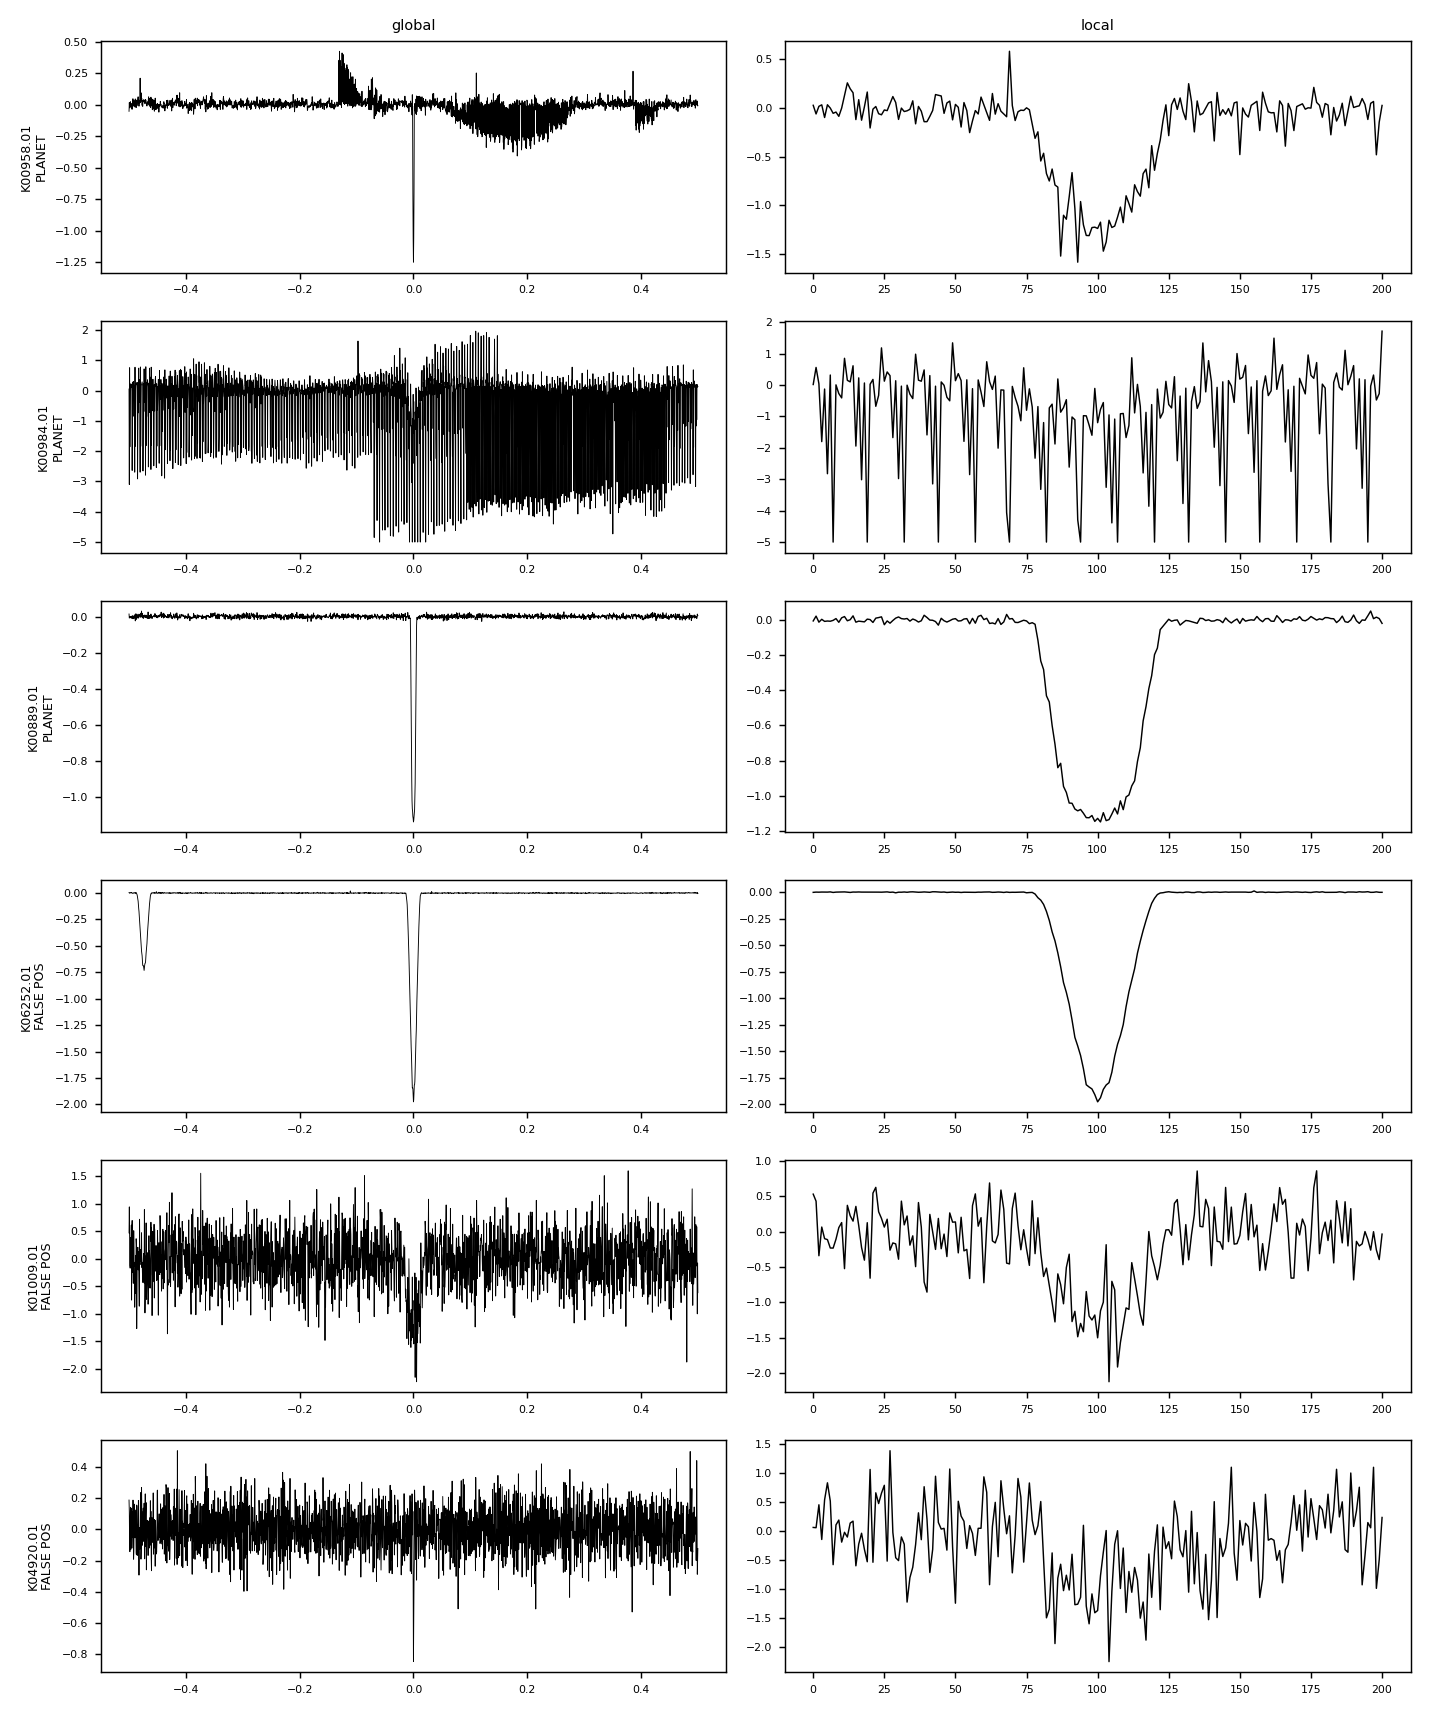
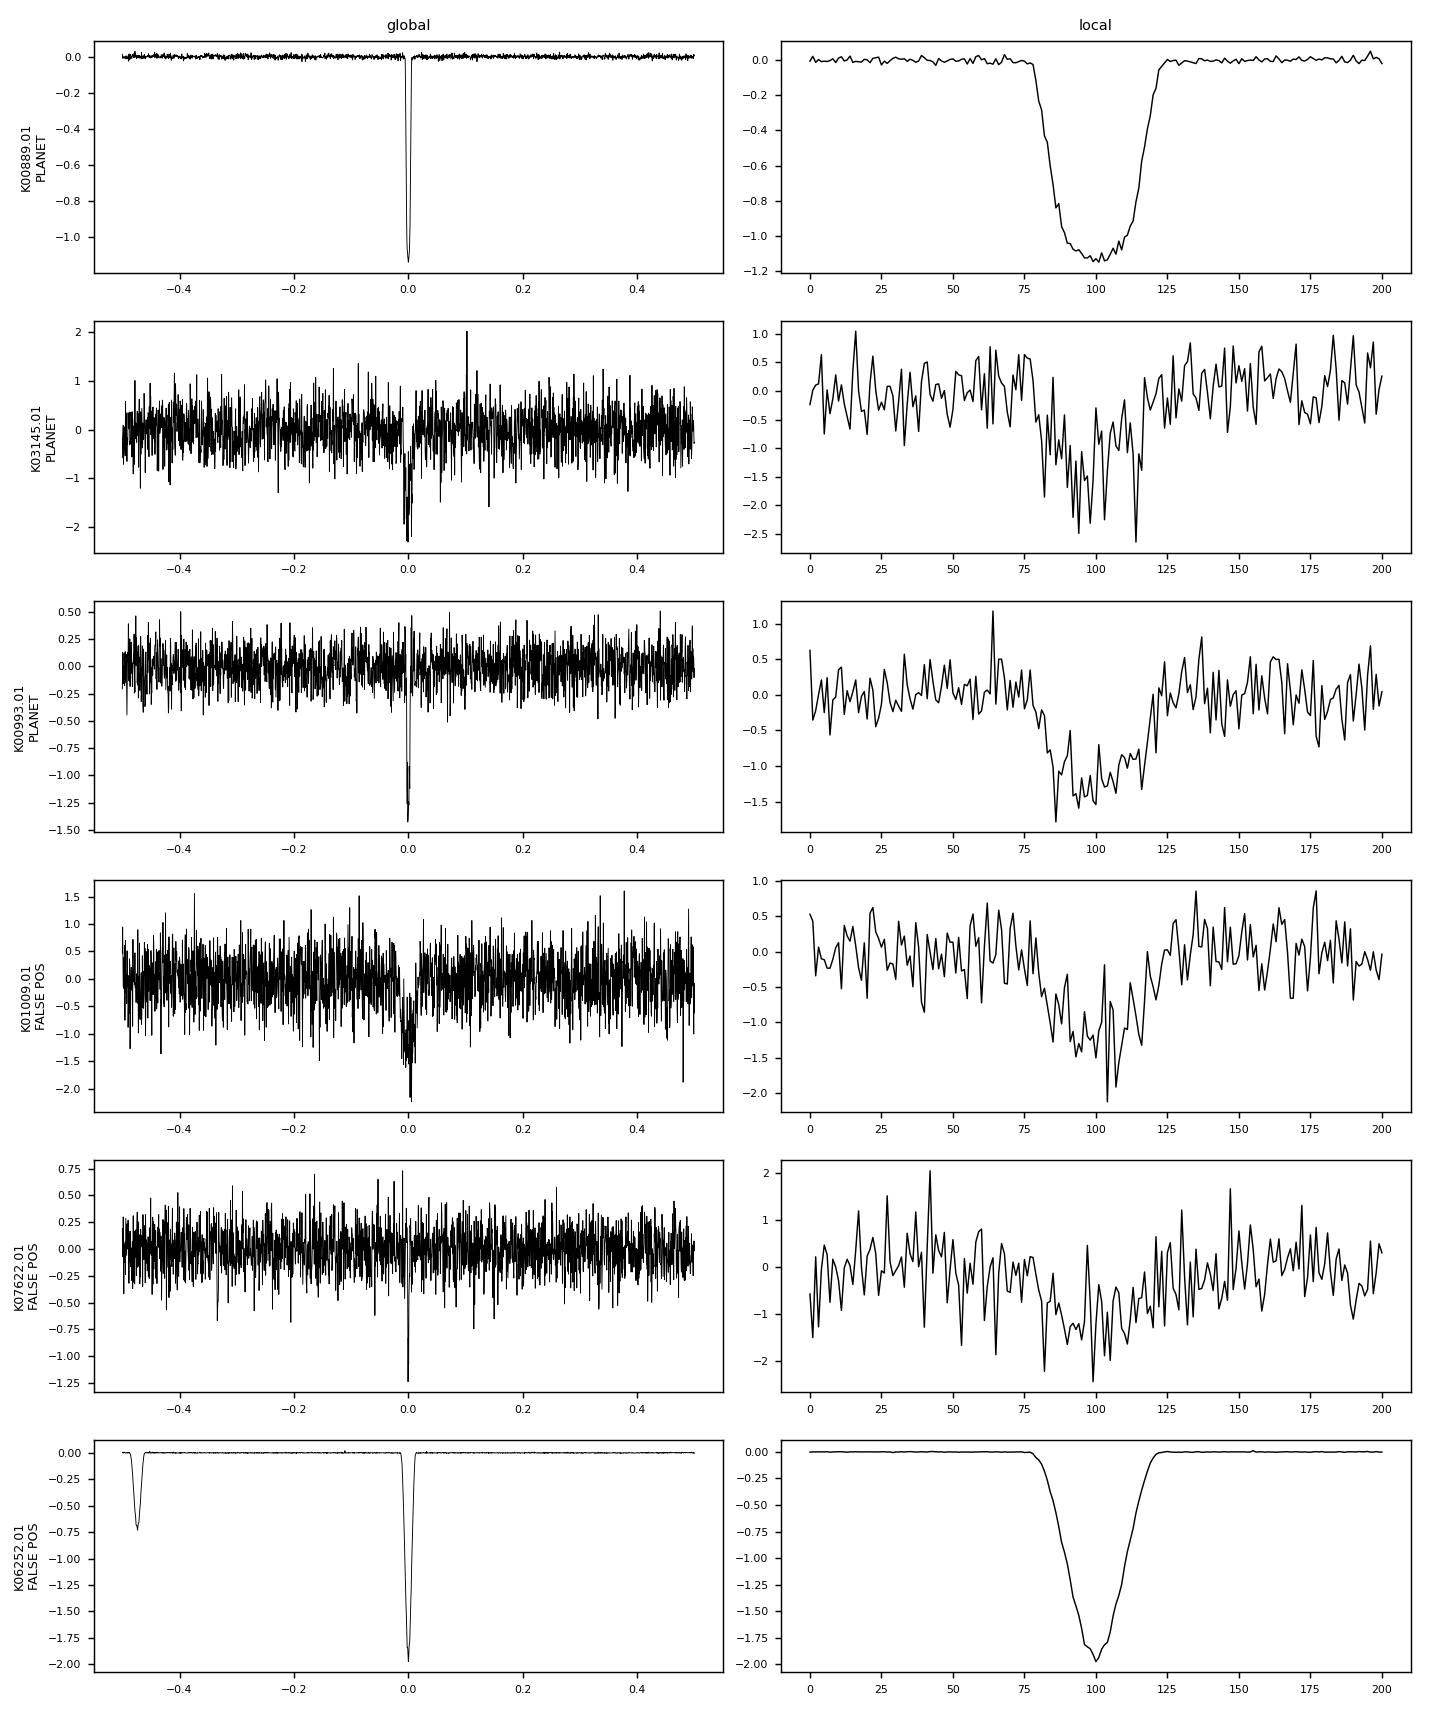
Fix drop-rate accounting in inspect_views.py
The denominator was keyed on the stars present in views.h5:

    stars_done = set(f["kepid"][:].tolist())
    attempted  = koi[koi.kepid.isin(stars_done)]

A star whose KOIs were ALL dropped never appears in f["kepid"], so it was
excluded from its own drop rate. Measured on the full 6,822-view build,
that reported 1% when the true rate was 10.1% - a tenfold understatement
of the exact number project.md requires be reported before Stage 3.

Take the denominator from the cache directory instead: every star we had
data for, whether or not it yielded a view.

Also report per-disposition RATES rather than raw counts. The counts alone
read as ordinary class imbalance (727 FP vs 38 CONFIRMED); the rates show
what is actually happening:

    CONFIRMED        38 / 2748 dropped =  1.4%
    FALSE POSITIVE  727 / 4839 dropped = 15.0%

and print the base-rate shift (36.2% -> 39.7% planet) with a warning when
it moves, so the bias cannot be absorbed silently.

Cause is geometric, not a defect: the local view spans +/-2.5 transit
durations and make_views returns None when that exceeds the orbit
(period < 5x duration). 330 of the 765 drops fail that guard. Eclipsing
binaries cluster at short period with long eclipses, precisely that
geometry, so the loss falls on the dominant false-positive class.

Behaviour of the view builder is unchanged - this only fixes reporting.

diff --git a/inspect_views.py b/inspect_views.py
@@ -11,6 +11,8 @@ Usage:
     python inspect_views.py
 """
 
+import os
+
 import h5py
 import numpy as np
 import pandas as pd
@@ -20,6 +22,7 @@ import matplotlib.pyplot as plt
 
 H5 = "views.h5"
 KOI_CSV = "koi_ephem.csv"
+CACHE = "cache"
 
 
 def main():
@@ -74,17 +77,44 @@ def main():
     koi = koi[koi.koi_disposition.isin(["CONFIRMED", "FALSE POSITIVE"])]
     koi = koi.dropna(subset=["koi_period", "koi_time0bk", "koi_duration"])
 
-    stars_done = set(f["kepid"][:].tolist())
+    # The denominator must be every star we HAD DATA FOR, not every star
+    # that ended up in views.h5. A star whose KOIs were all dropped never
+    # appears in f["kepid"], so keying on that set silently excludes total
+    # failures from their own drop rate. Measured 2026-09-03: that bug
+    # reported 1% when the true rate was 10.1%.
+    if os.path.isdir(CACHE):
+        stars_done = {int(x[:-4]) for x in os.listdir(CACHE)
+                      if x.endswith(".npz")}
+    else:                                   # pre-cache pipeline, best effort
+        stars_done = set(f["kepid"][:].tolist())
     attempted = koi[koi.kepid.isin(stars_done)]
     got = set(name)
     dropped = attempted[~attempted.kepoi_name.isin(got)]
 
-    print(f"\n[drop] {len(attempted)} KOIs on the stars processed, "
-          f"{len(got)} stored, {len(dropped)} dropped "
-          f"({len(dropped) / max(len(attempted), 1) * 100:.0f}%)")
+    print(f"\n[drop] {len(attempted)} KOIs on the {len(stars_done)} stars "
+          f"with data, {len(attempted) - len(dropped)} stored, "
+          f"{len(dropped)} dropped "
+          f"({len(dropped) / max(len(attempted), 1) * 100:.1f}%)")
     if len(dropped):
+        # Rates, not counts. Counts alone hide the bias: 727 FP vs 38
+        # CONFIRMED looks like class imbalance until you divide through
+        # and see 15.0% vs 1.4%.
         print("\n[drop] by disposition:")
-        print(dropped.koi_disposition.value_counts().to_string())
+        tab = (attempted.assign(kept=attempted.kepoi_name.isin(got))
+                        .groupby("koi_disposition")["kept"]
+                        .agg(kept="sum", total="count"))
+        tab["dropped"] = tab.total - tab.kept
+        tab["drop_%"] = (100 * tab.dropped / tab.total).round(1)
+        print(tab.to_string())
+
+        base_before = (attempted.koi_disposition == "CONFIRMED").mean()
+        kept_rows = attempted[attempted.kepoi_name.isin(got)]
+        base_after = (kept_rows.koi_disposition == "CONFIRMED").mean()
+        print(f"\n[drop] planet fraction before drops: {base_before*100:.1f}%")
+        print(f"[drop] planet fraction after  drops: {base_after*100:.1f}%")
+        if abs(base_after - base_before) > 0.01:
+            print("[drop] WARNING: drops are class-biased. The base rate "
+                  "moved. Disclose this alongside any headline metric.")
         print(f"\n[drop] median period of dropped:   "
               f"{dropped.koi_period.median():8.2f} d")
         print(f"[drop] median period of kept:      "
